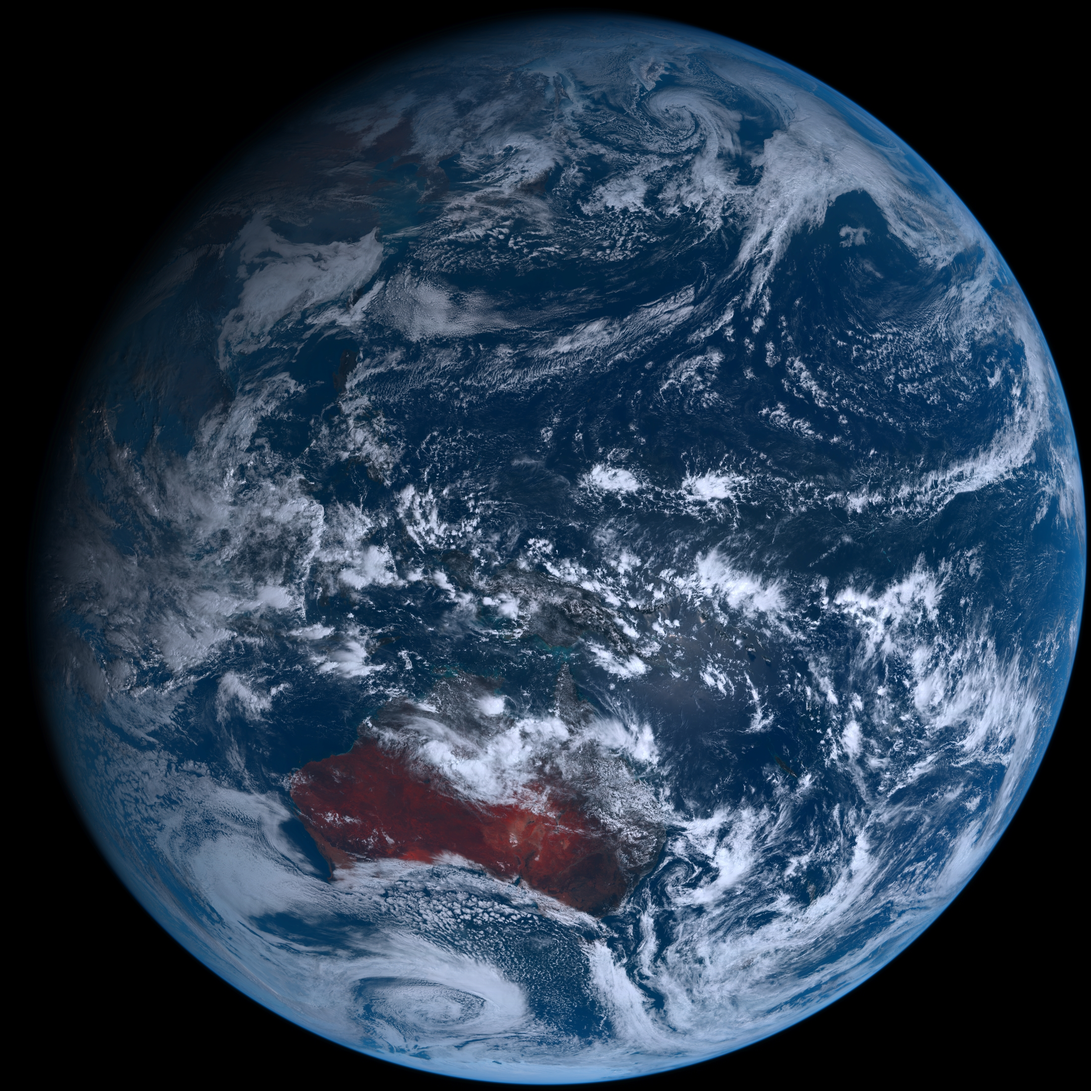
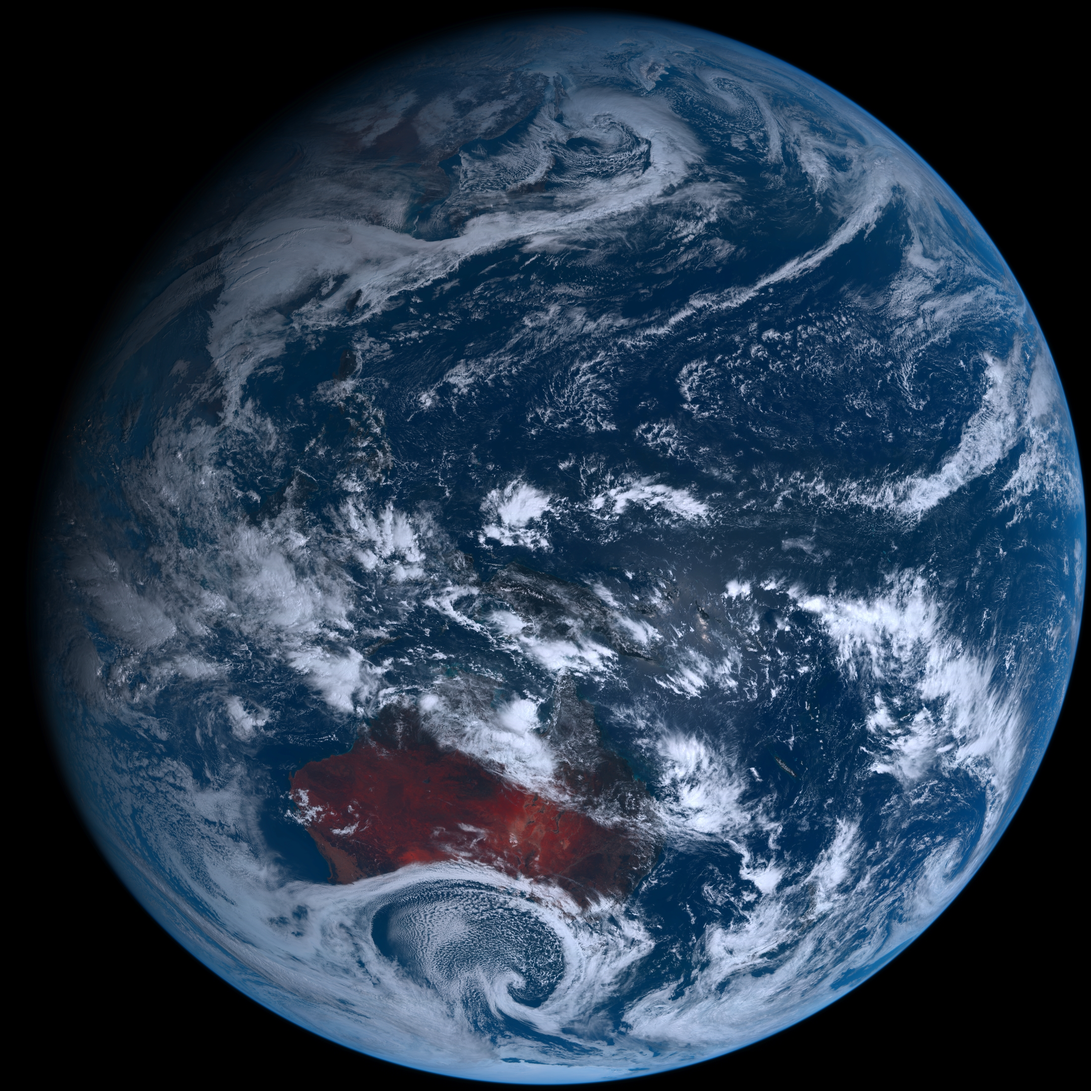
Thursday 02/02/2023 03:10 +00

diff --git a/README.md b/README.md
@@ -1,12 +1,12 @@
 # ps1
 
 - ### [BingWallpaper](https://github.com/milankomaj/ps1/wiki/BingWallpaper)  [![Generate Wallpapers Github README.md](https://github.com/milankomaj/ps1/actions/workflows/GenWall.yml/badge.svg?event=schedule)](https://github.com/milankomaj/ps1/actions/workflows/GenWall.yml)
-- ##### Wednesday 01/02/2023 03:18:16 +00
+- ##### Thursday 02/02/2023 03:10:03 +00
 <img src="BingWallpaper/latest.jpg" width="700" height="auto" title="👉  BingWallpaper  👈">
 
 
 - ### [Himawari](https://github.com/milankomaj/ps1/wiki/Himawari) [![Generate Wallpapers Github README.md](https://github.com/milankomaj/ps1/actions/workflows/GenWall.yml/badge.svg?event=schedule)](https://github.com/milankomaj/ps1/actions/workflows/GenWall.yml) [![Video](https://github.com/milankomaj/ps1/actions/workflows/video.yml/badge.svg?event=schedule)](https://github.com/milankomaj/ps1/actions/workflows/video.yml)
-- ##### Wednesday 01/02/2023 03:18:51 +00
+- ##### Thursday 02/02/2023 03:10:38 +00
 <img src="Himawari/latest.jpg" width="auto" height="371" title="👉  Himawari  👈"> <img src="Himawari/pifd/himawari_pifd.webp" width="auto" height="371"/>
 
 
